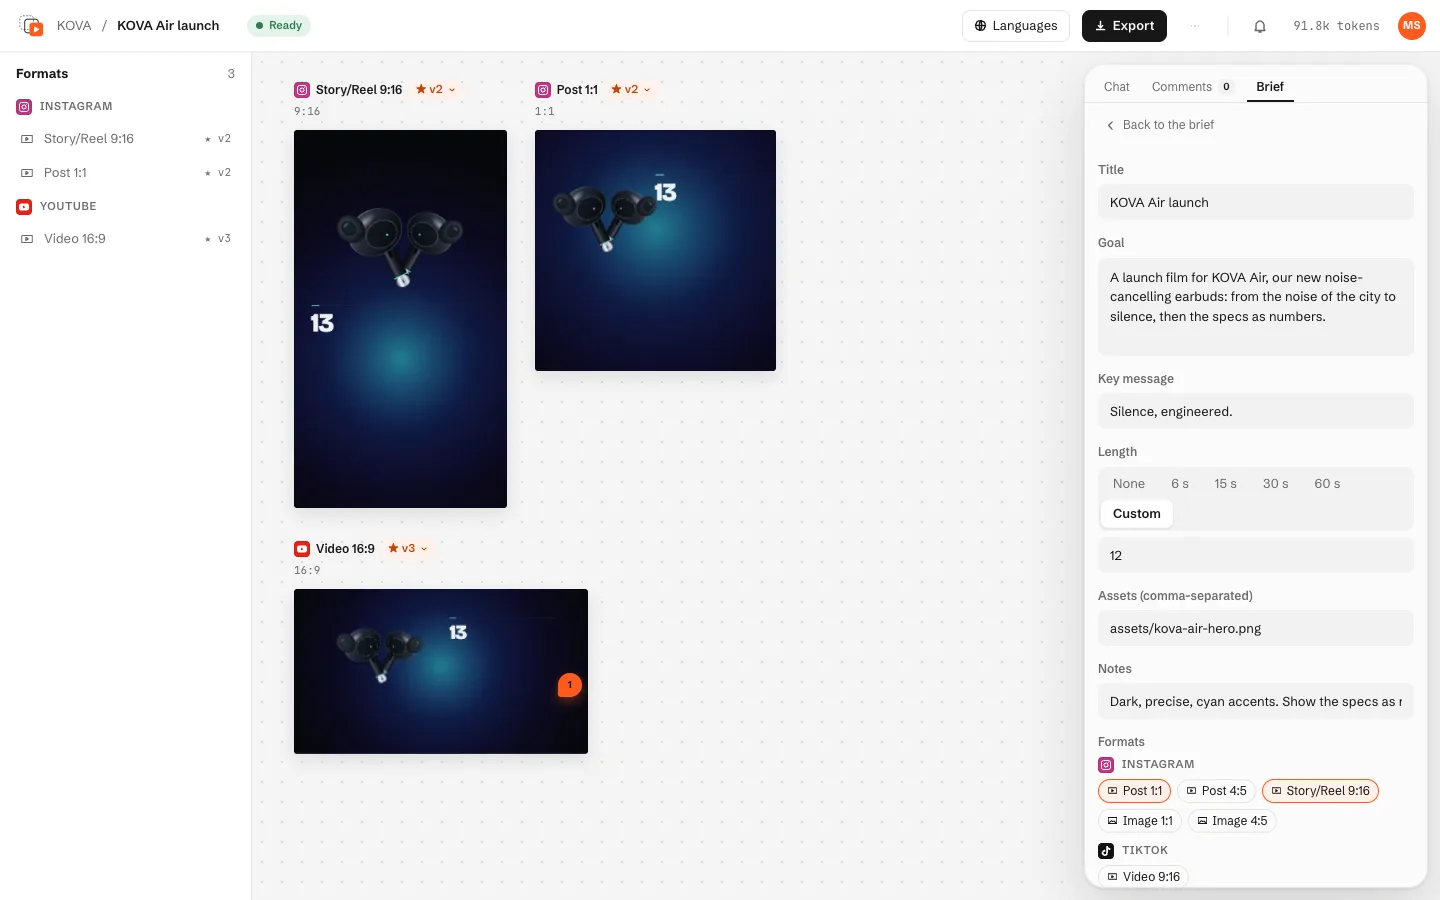
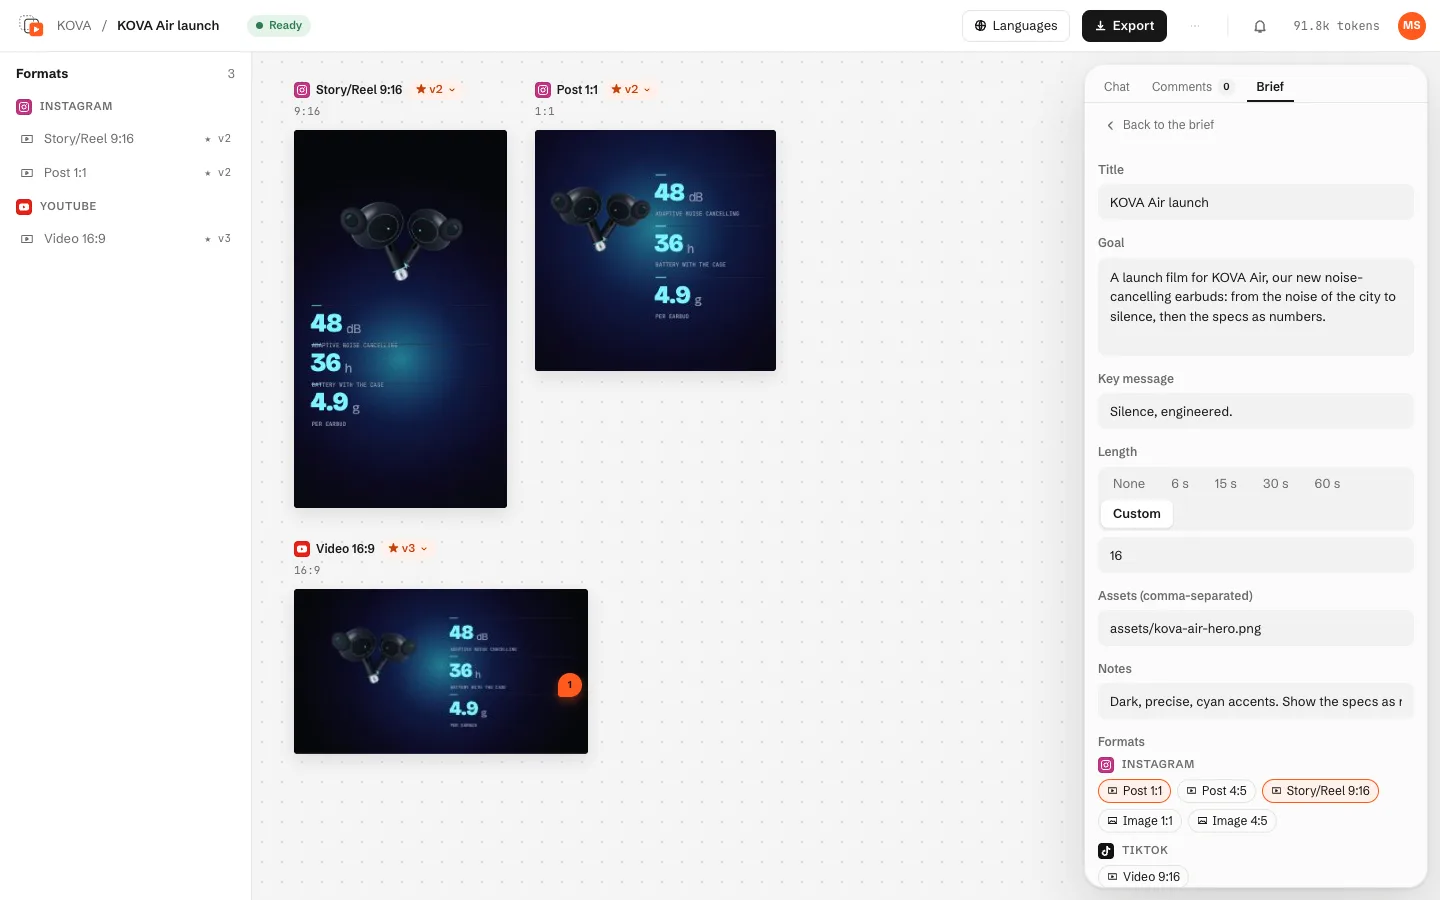
fix(site): guide boards show the finished KOVA specs, renders done before the shots (decisions 1847-1848)
Claude-Session: https://claude.ai/code/session_019pFVuDZefGiQPfptrkkr1A

diff --git a/site/src/guide.html b/site/src/guide.html
@@ -223,7 +223,7 @@ pnpm motion-studio</code></pre>
           <li>Set the <b>video length</b>, the <b>assets to use</b> (from your computer or from Assets) and, under <b>More options</b>, notes for the agent, codebases and <b>Services</b>.</li>
           <li>Press <b>Generate</b> (<kbd>⌘↵</kbd>), or <b>Save draft</b>. It runs in the background and tells you when it is ready.</li>
         </ol>
-        <figure class="shot"><a class="shot__open" href="assets/guide/new-creative.webp"><img src="assets/guide/new-creative.webp" alt="New creative for KOVA: the goal and key message filled in by the agent, three formats selected (Post 1:1, Story/Reel 9:16, Video 16:9), a 12 s length, and the Generate button." width="1440" height="900" loading="lazy" decoding="async"></a><figcaption>The form, here filled in by the agent: its fields carry the Agent mark.</figcaption></figure>
+        <figure class="shot"><a class="shot__open" href="assets/guide/new-creative.webp"><img src="assets/guide/new-creative.webp" alt="New creative for KOVA: the goal and key message filled in by the agent, three formats selected (Post 1:1, Story/Reel 9:16, Video 16:9), a 16 s length, and the Generate button." width="1440" height="900" loading="lazy" decoding="async"></a><figcaption>The form, here filled in by the agent: its fields carry the Agent mark.</figcaption></figure>
         <h3 id="brief-agent">With the agent</h3>
         <p><b>With the agent</b> (top bar), or <b>Let the agent fill it in</b>, opens a chat with a read-only agent beside the form. Tell it what you want; the <b>+</b> under the message links code folders or attaches assets. It fills the real form and marks each field it wrote with <b>Agent</b>. A field you change by hand is yours: the agent never overwrites it unless you ask. Nothing is created until you press <b>Generate</b>; the chat then becomes the start of the creative's chat. Leaving the page keeps the session, and New creative later offers <b>Resume</b> or <b>Start over</b>.</p>
         <figure class="shot"><a class="shot__open" href="assets/guide/brief-agent.webp"><img src="assets/guide/brief-agent.webp" alt="Brief with the agent: on the left the chat (the request, the agent's reply and an Agent action line), on the right the form filled in with Agent marks." width="1440" height="900" loading="lazy" decoding="async"></a></figure>
@@ -293,7 +293,7 @@ pnpm motion-studio</code></pre>
           <li><b>View vN</b> on a version card in the chat opens it read-only. <b>Version history</b>, in the ⋯ menu, lists every version of the creative, and you can restart from an earlier one.</li>
         </ul>
         <figure class="shot"><a class="shot__open" href="assets/guide/versions.webp"><img src="assets/guide/versions.webp" alt="The versions of YouTube Video 16:9: v3 (direct edits, starred automatically), v2 and v1 with their requests and tokens, and Compare." width="1440" height="900" loading="lazy" decoding="async"></a></figure>
-        <figure class="shot"><a class="shot__open" href="assets/guide/compare.webp"><img src="assets/guide/compare.webp" alt="The Compare dialog at 10.5 s: v2 (Only what matters. Nothing else.) and v3 (Only what matters. Always.) side by side, the version pickers, and Use v2 for export." width="1440" height="900" loading="lazy" decoding="async"></a></figure>
+        <figure class="shot"><a class="shot__open" href="assets/guide/compare.webp"><img src="assets/guide/compare.webp" alt="The Compare dialog at 14 s, on the end card: v2 (Only what matters. Nothing else.) and v3 (Only what matters. Always.) side by side, the version pickers, and Use v2 for export." width="1440" height="900" loading="lazy" decoding="async"></a></figure>
         <figure class="shot"><a class="shot__open" href="assets/guide/canvas-v2.webp"><img src="assets/guide/canvas-v2.webp" alt="The canvas after a second request: v2 on every board, and the agent's summary of the new closing line in the chat." width="1440" height="900" loading="lazy" decoding="async"></a><figcaption>After "Make the closing line shorter and more confident": v2 on every board.</figcaption></figure>
       </section>
 

diff --git a/docs/decisions-log.md b/docs/decisions-log.md
@@ -2187,3 +2187,5 @@ Legenda impatto: 🟢 basso · 🟡 medio · 🔴 alto (sicurezza o prodotto).
 1844. 🟢 **Set di identità e store pack resi in locale (decisione: orchestratore (2026-10-24), richiesta sito B, giro 1).** Le icone KOVA (favicon e app icon dal marchio del brand) sono renderizzate dal renderer Chrome dell'app (`POST …/versions/1/render`), così la vista «Sizes» mostra i file veri e il loro avviso; lo store pack è creato con la sua route e la guida mostra il canvas e la finestra «Export the store pack» (senza esportare file).
 1845. 🟢 **Lo script delle immagini non cancella più nulla (decisione: orchestratore (2026-10-24), richiesta sito B, giro 1).** Su richiesta dell'orchestratore: niente `rm` del demo all'avvio né alla fine (la cartella deve essere vuota o assente; resta dopo l'uso), l'attesa e la richiesta di permesso dell'agente demo si comandano col contenuto di un file (`hold`/`go`, `ask`/`asked`) invece di cancellarlo, e l'audio grezzo di `say` resta nella home del demo. Solo il profilo Chrome usa-e-getta del cablaggio del progetto (`site/scripts/chrome.mjs`) viene ancora rimosso, come già nei controlli del sito.
 1846. 🟢 **Clip senza id doppi nelle identità (decisione: orchestratore (2026-10-24), richiesta sito B, giro 1).** La prima prova del set di icone era stata rifiutata dal validatore («id "mark" usato più volte»: traccia e clip con lo stesso id): la traccia dell'agente demo si chiama ora `vector`. Lo screenshot del confronto aspetta 6 s perché entrambe le versioni carichino il fotogramma a 10,5 s.
+1847. 🟢 **Il film KOVA del demo dura 16 s, così il fotogramma delle schede cade sulle specifiche finite (decisione: orchestratore (2026-10-24), richiesta sito B, giro 2).** L'app prende il poster di una scheda a metà composizione (`posterTime`, decisione 1040): con l'hero KOVA di 12 s la metà (6 s) cadeva sul contatore in corsa («13»). Senza toccare il prodotto, l'agente demo allunga di 4 s la scena finale (il brief chiede 16 s): la metà (8 s) mostra 48 dB · 36 h · 4.9 g completi. La regola del poster a metà resta com'è: per questo film non è un momento sbagliato, solo per l'hero originale.
+1848. 🟡 **«Rendering…» resta solo dove la schermata è un turno in corso (decisione: orchestratore (2026-10-24), richiesta sito B, giro 2).** Le schermate rifatte aspettano che i render finiscano; ma durante un turno dell'agente la scheda del formato a cui il turno si applica dice «Rendering…» per tutto il turno (è lo stato dell'app, non un render indietro): resta in `agent-working`, `approval` e `approval-review`, che mostrano proprio un turno in attesa.
